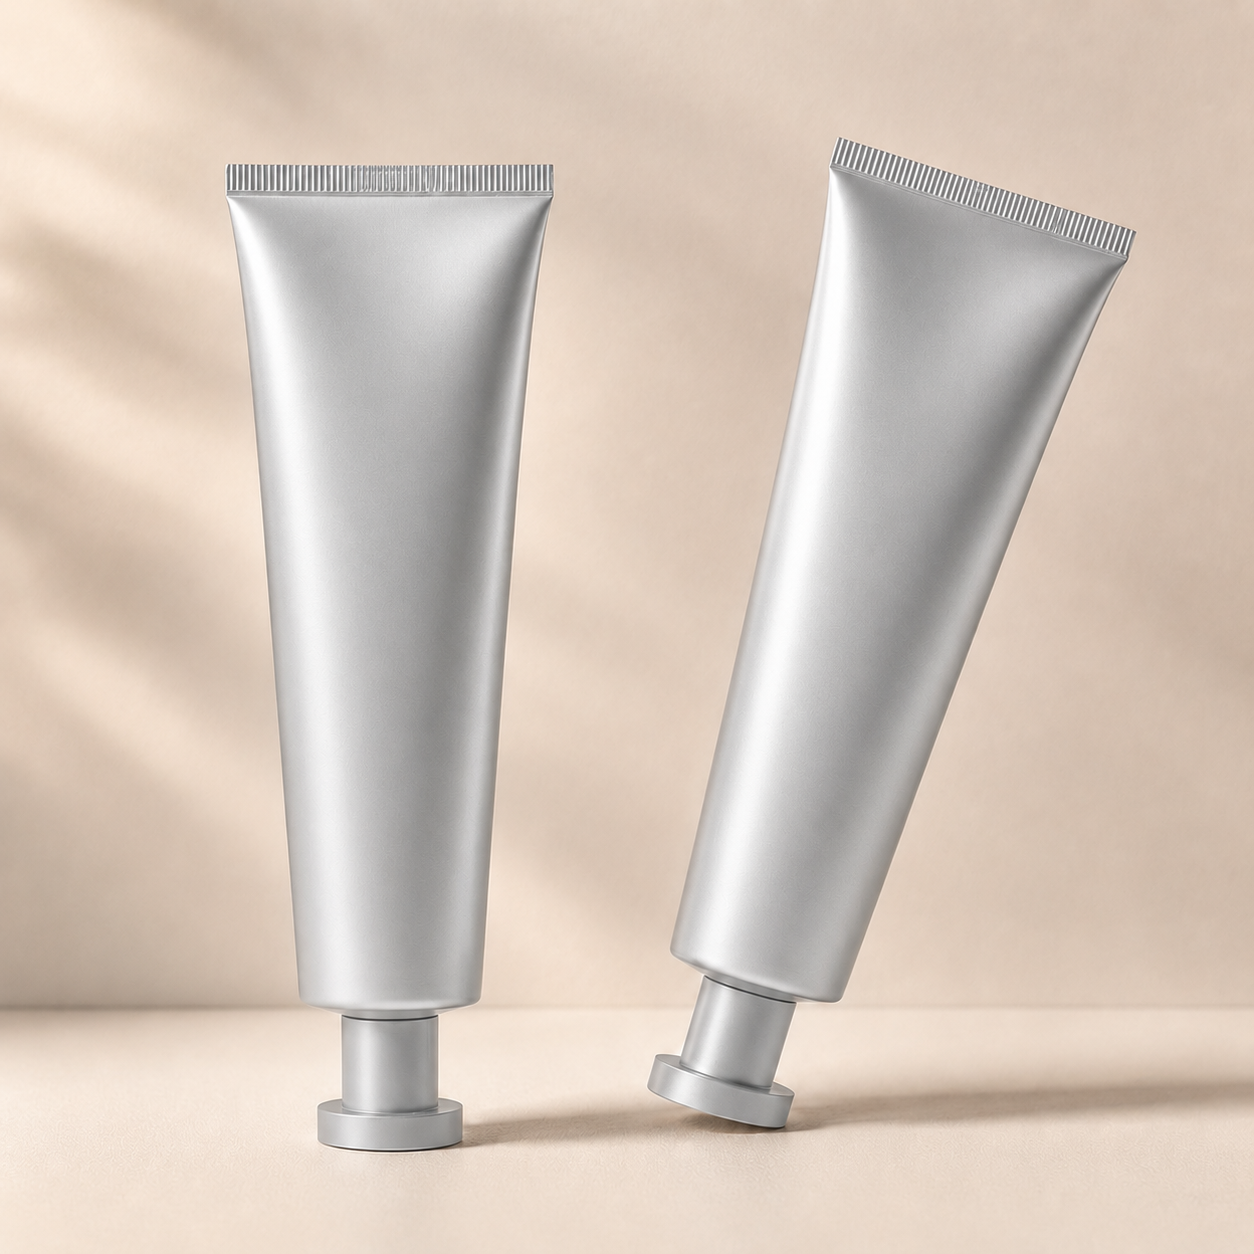
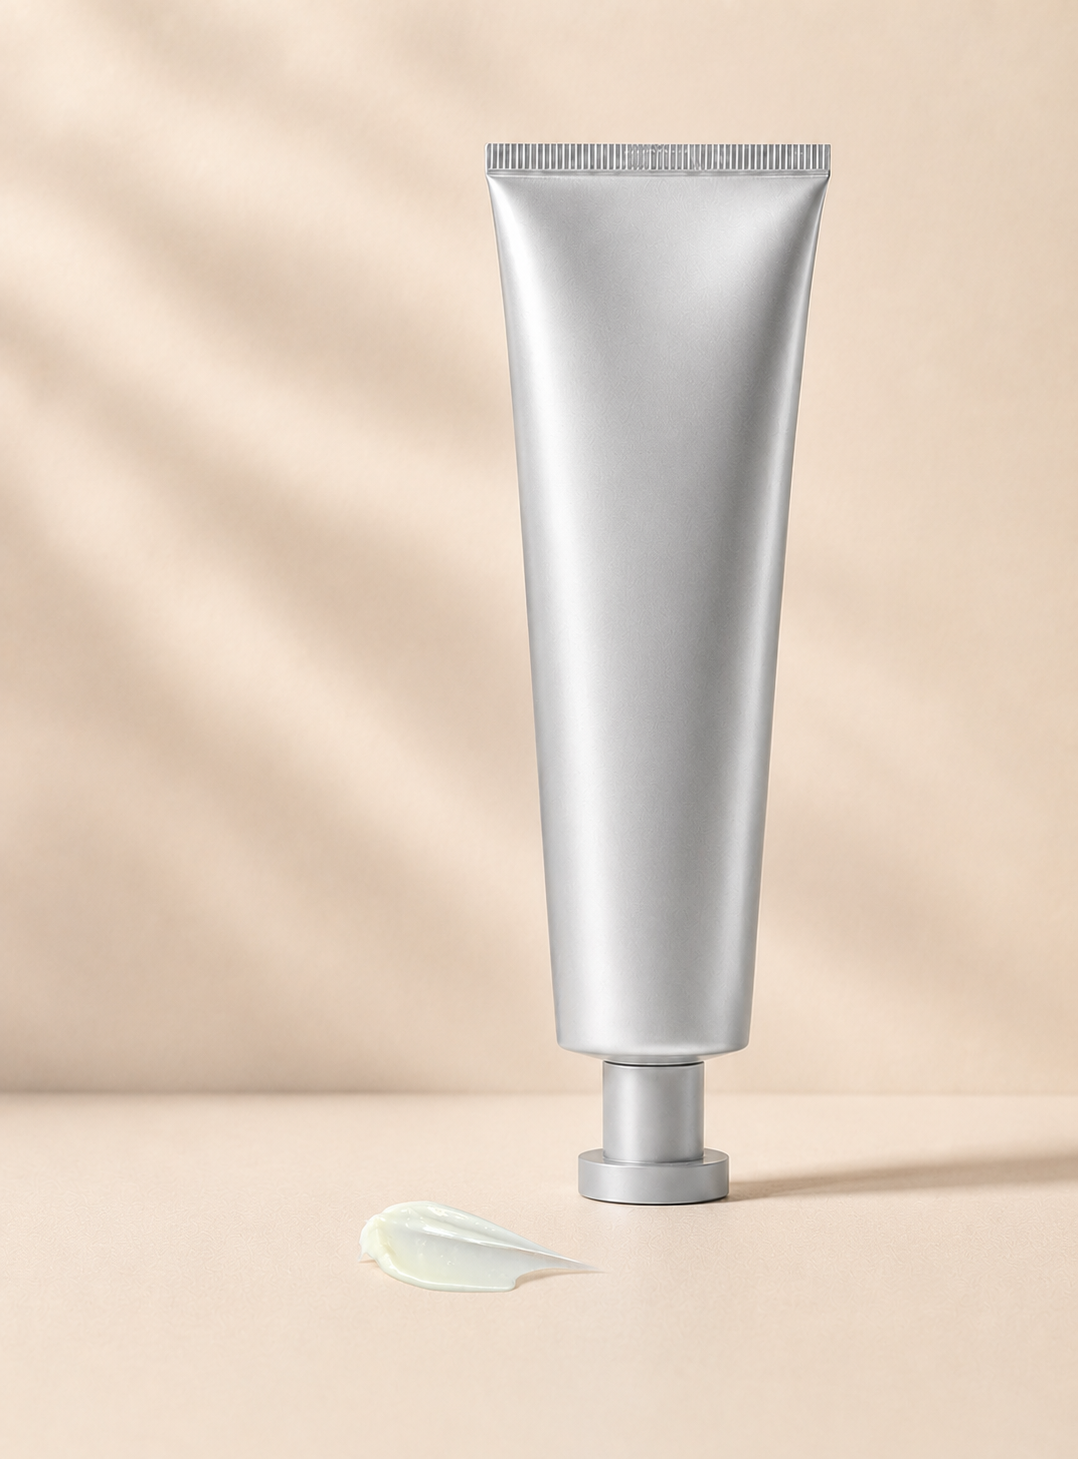
Use real Eternus product photo and fix catalog image crop
Replace placeholder JPG with full-resolution PNG from packaging assets.
Switch catalog cards from object-fit contain to cover so all product
images fill the fixed 360 px frame at a uniform crop rather than
letterboxing at inconsistent aspect ratios.

diff --git a/styles.css b/styles.css
@@ -1442,10 +1442,10 @@ p { text-wrap: pretty; }
 .filter-group button[aria-pressed="true"] { background: var(--ink); border-color: var(--ink); color: #fff; }
 .catalog-grid { display: grid; grid-template-columns: repeat(3, minmax(0, 1fr)); border-top: 1px solid var(--hair); border-left: 1px solid var(--hair); }
 .catalog-item { min-width: 0; display: grid; grid-template-rows: 360px 1fr; border-right: 1px solid var(--hair); border-bottom: 1px solid var(--hair); background: var(--surface-strong); }
-.catalog-image { display: grid; place-items: center; padding: 34px; background: var(--paper-deep); }
+.catalog-image { display: flex; align-items: center; justify-content: center; padding: 34px; background: var(--paper-deep); }
 .catalog-image img { width: auto; height: 250px; max-width: 100%; transition: transform .28s ease-out; }
-.catalog-image:has(img:is([src$=".png"], [src$=".jpg"])) { padding: 16px; overflow: hidden; }
-.catalog-image img:is([src$=".png"], [src$=".jpg"]) { width: 100%; height: 100%; max-width: none; object-fit: contain; }
+.catalog-image:has(img:is([src$=".png"], [src$=".jpg"])) { padding: 0; align-items: stretch; overflow: hidden; }
+.catalog-image img:is([src$=".png"], [src$=".jpg"]) { width: 100%; height: 100%; max-width: none; max-height: none; object-fit: cover; object-position: center 30%; }
 .catalog-image:hover img { transform: translateY(-4px); }
 .catalog-copy { padding: 30px; display: flex; flex-direction: column; align-items: flex-start; }
 .catalog-copy h2 { margin-top: 10px; font-family: var(--f-serif); font-size: 30px; font-weight: 500; }

diff --git a/skincare.html b/skincare.html
@@ -67,7 +67,7 @@
   <div class="catalog-copy"><span class="product-role">Moisturiser</span><h2><a href="tidlos-hud.html">Tidløs Hud</a></h2><p>Peptide barrier moisturiser</p><div class="catalog-meta"><span>50 g</span><span>AU$ 87.87</span></div><a class="text-link" href="tidlos-hud.html">View Tidløs Hud <span aria-hidden="true">→</span></a></div>
 </article>
 <article class="catalog-item" data-product-category="daily">
-  <a class="catalog-image" href="eternus.html"><img src="assets/eternus.jpg" alt="Eternus hybrid facial sunscreen spf 50 packaging" width="160" height="440" loading="lazy" /></a>
+  <a class="catalog-image" href="eternus.html"><img src="assets/eternus.png" alt="Eternus hybrid facial sunscreen SPF 50 packaging" width="1078" height="1459" loading="lazy" /></a>
   <div class="catalog-copy"><span class="product-role">Sunscreen</span><h2><a href="eternus.html">Eternus</a></h2><p>Hybrid facial sunscreen SPF 50</p><div class="catalog-meta"><span>50 mL</span><span>AU$ 83.78</span></div><a class="text-link" href="eternus.html">View Eternus <span aria-hidden="true">→</span></a></div>
 </article>
 <article class="catalog-item" data-product-category="treatment">